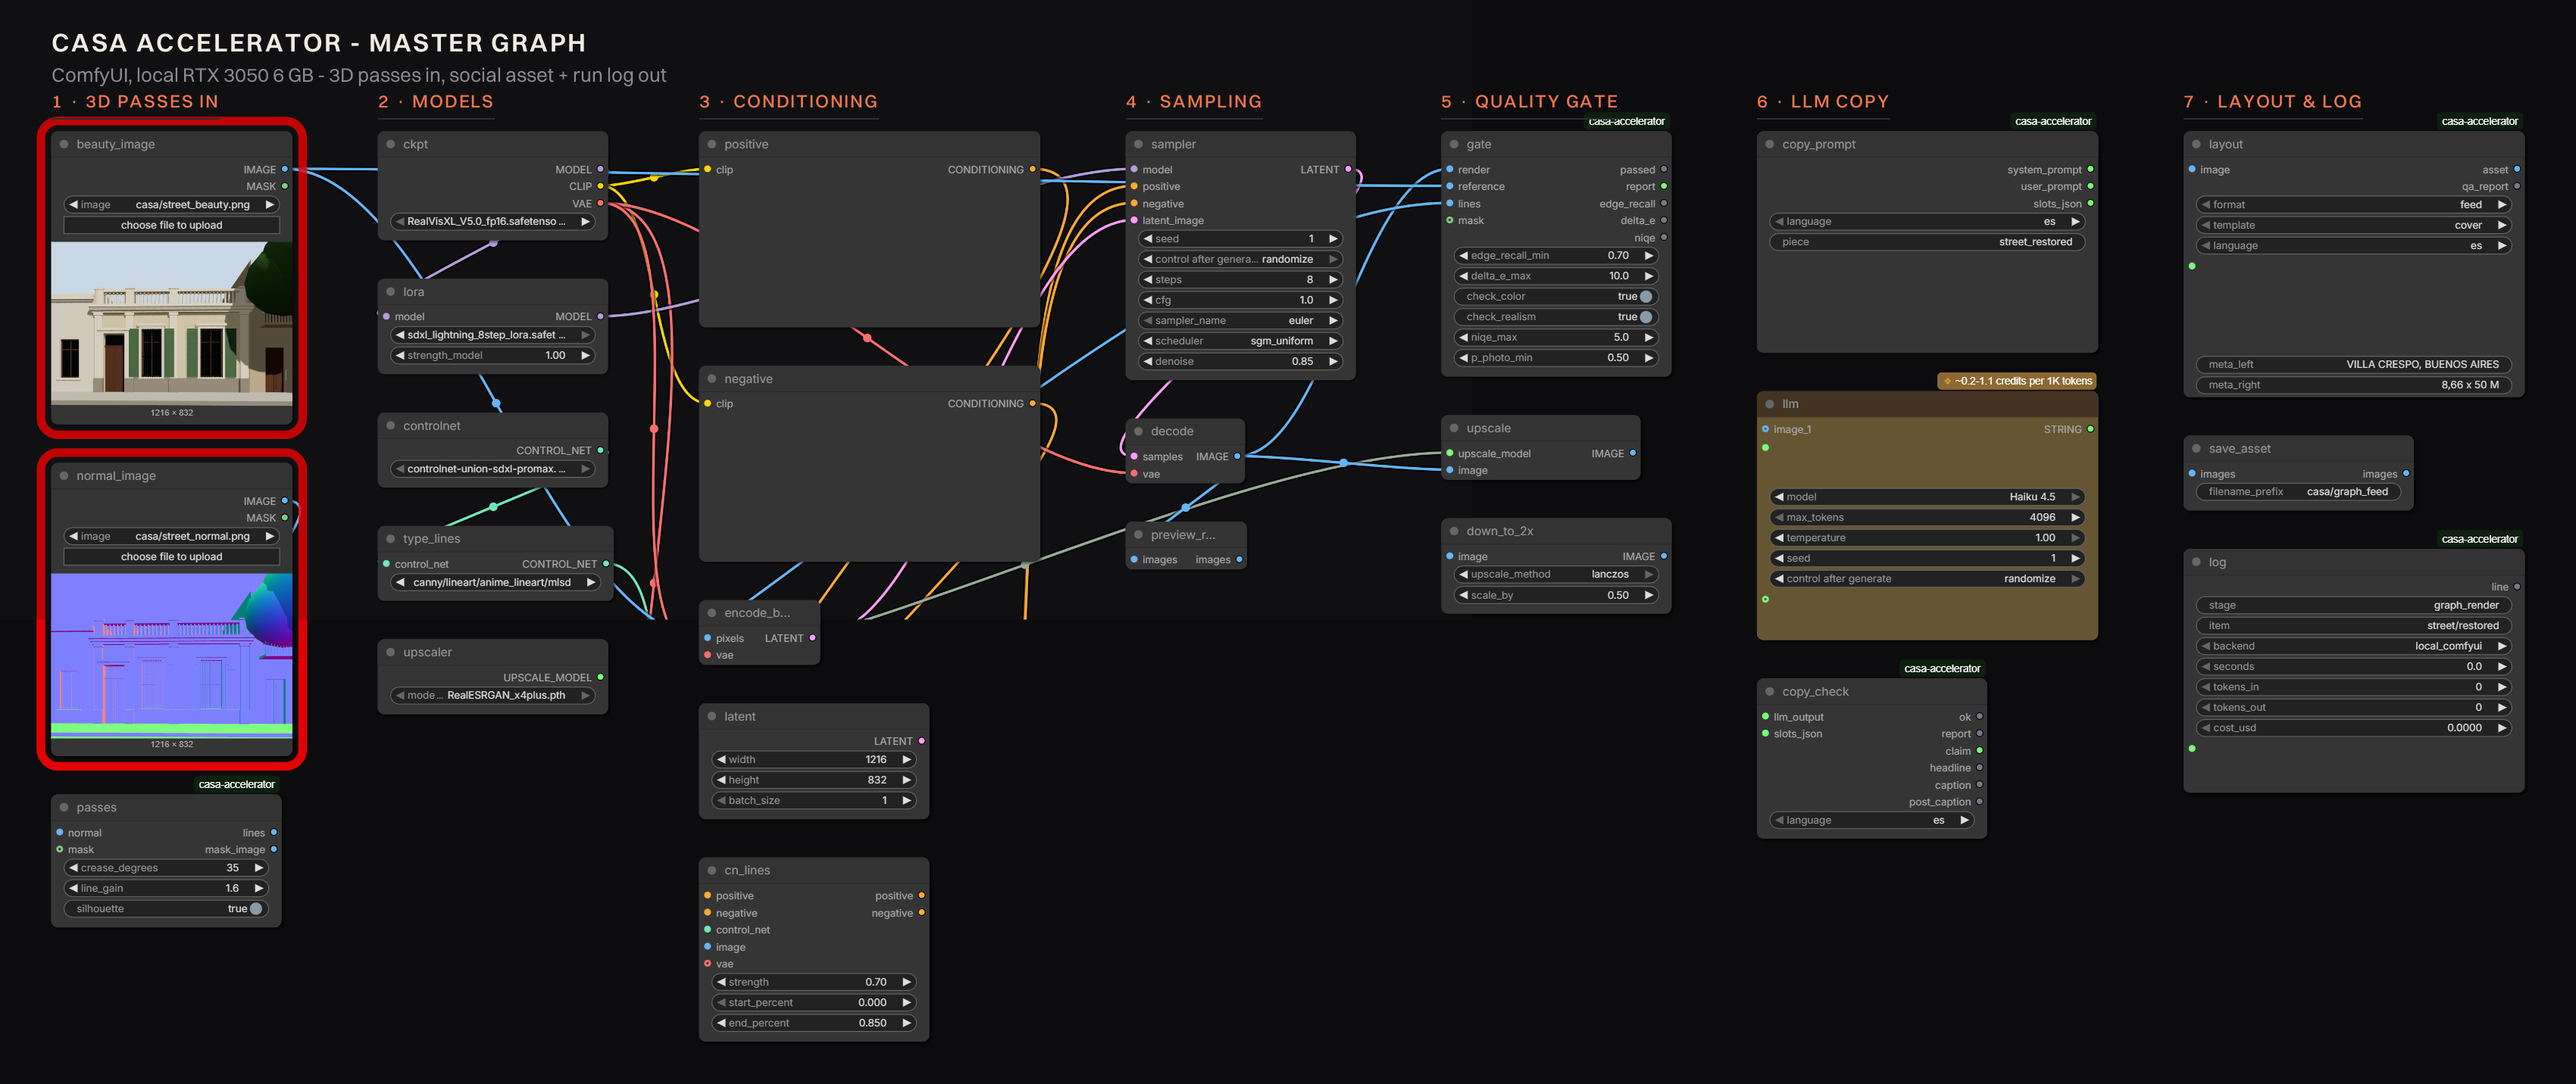
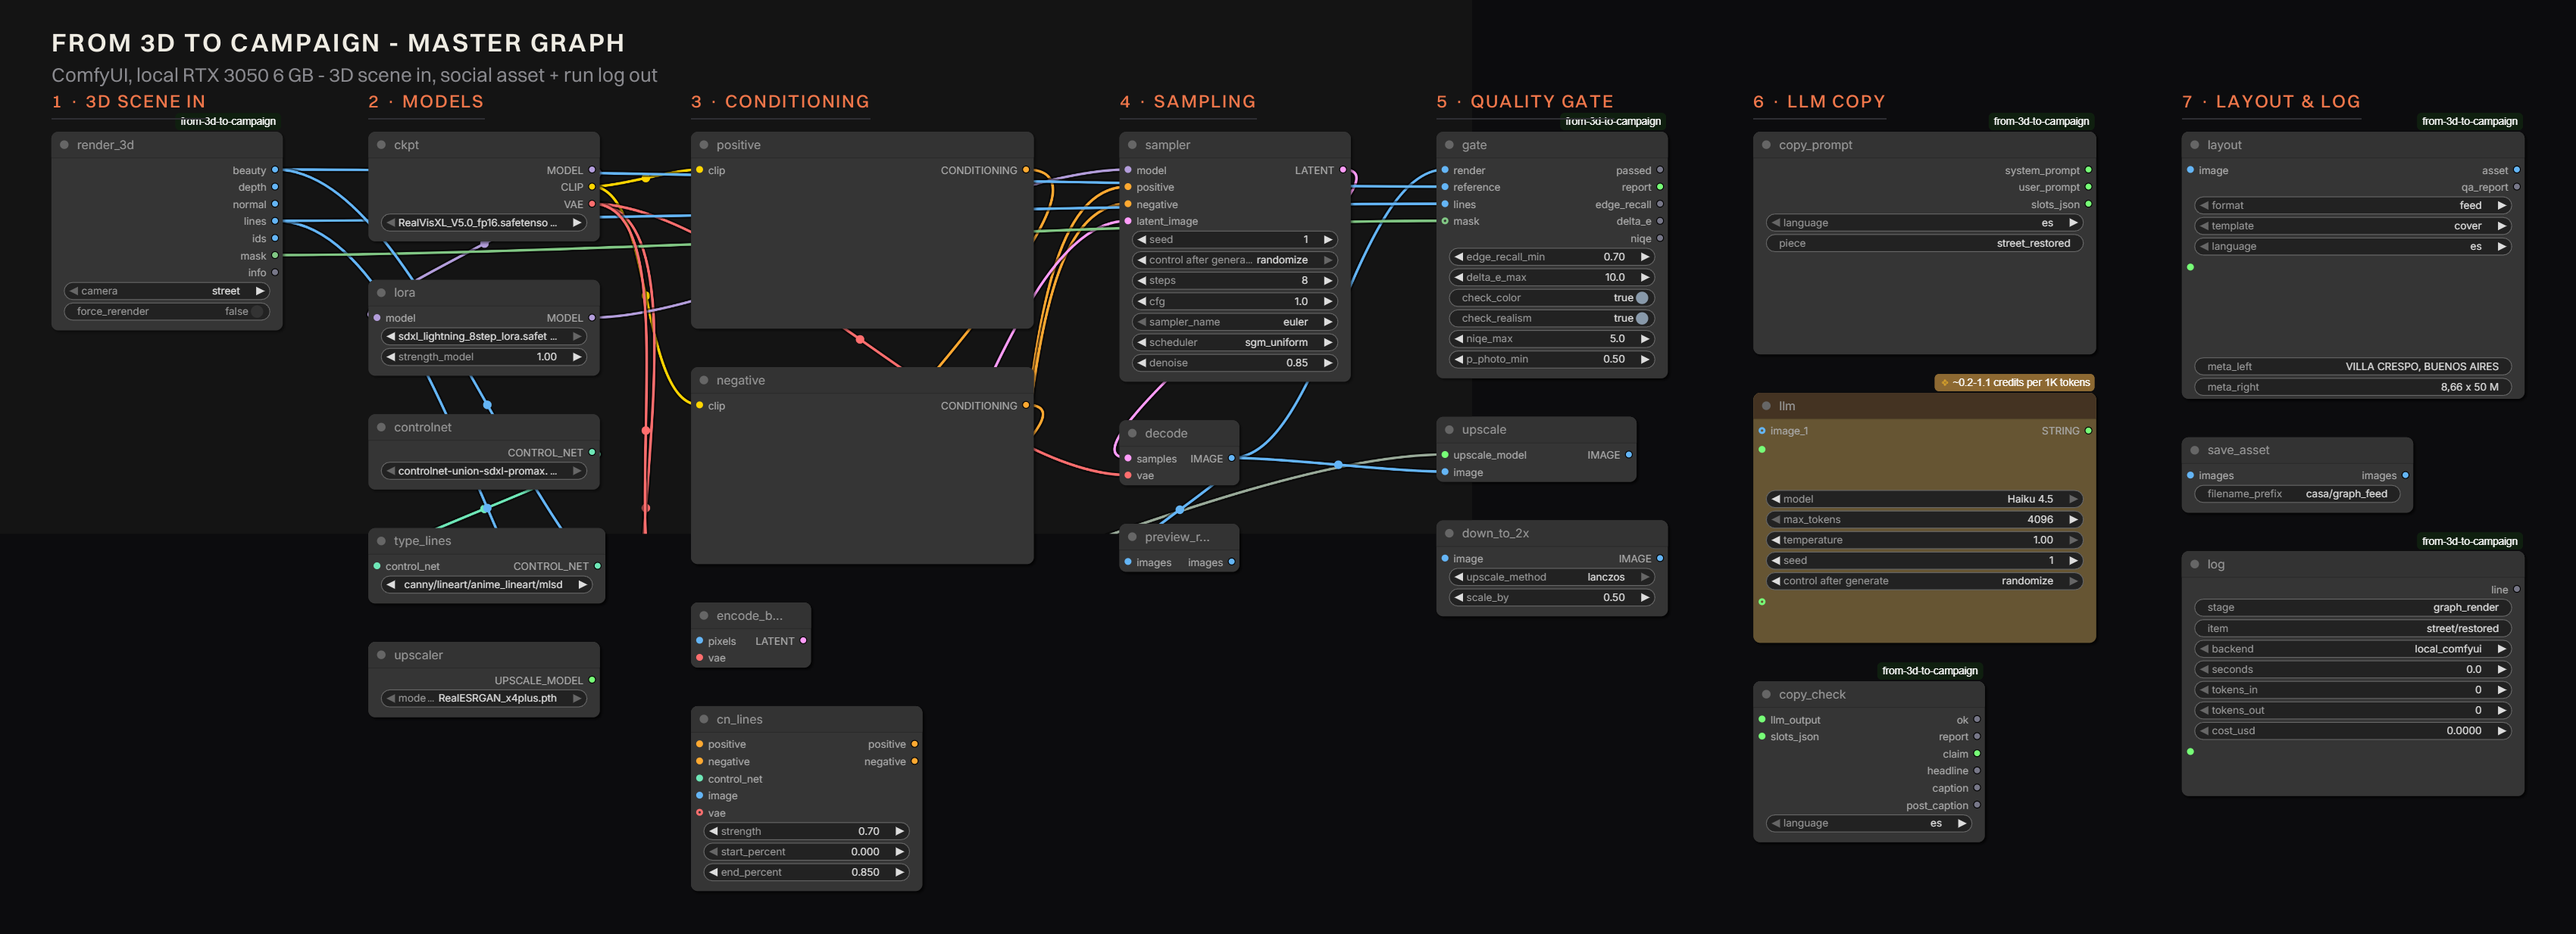
Align the node pack with the project name
The ComfyUI category and the pack folder now read "from 3d to campaign", so the
badge on every node matches the published package. Figures regenerated from the
running graph; the master graph figure now leads with CasaRender3D.

diff --git a/docs/report/index.html b/docs/report/index.html
@@ -260,7 +260,7 @@ footer{border-top:1px solid var(--line);padding:44px 0 70px;font-size:14px;color
       </tbody>
     </table>
     <figure class="two" style="align-items:center">
-      <img src="assets/graph-nodes.png" alt="Detail of the six custom casa-accelerator nodes in ComfyUI">
+      <img src="assets/graph-nodes.png" alt="Detail of the seven custom from-3d-to-campaign nodes in ComfyUI">
       <div>
         <h3>The six custom nodes</h3>
         <p class="muted" style="font-size:16px">They are the part of the pipeline that is <em>ours</em>:
@@ -544,16 +544,18 @@ git clone https://github.com/meryboth/from-3d-to-campaign</code></pre>
     <h3 style="margin-top:44px">Install and run</h3>
     <ol class="steps">
       <li>
-        <h3>Clone the repo and its node pack</h3>
-        <p>The pack is a thin wrapper: a loader in <span class="mono">custom_nodes</span> that points
-          ComfyUI at the repo's <span class="mono">comfy_nodes</span> folder, so one checkout serves both
-          the graph and the command line.</p>
-<pre><code>git clone https://github.com/&lt;user&gt;/casa-accelerator
-cd casa-accelerator &amp;&amp; npm install        # Three.js scene + headless exporter
-python -m venv .venv &amp;&amp; .venv/Scripts/pip install -r requirements.txt</code></pre>
-<pre><code># ComfyUI/custom_nodes/casa-accelerator/__init__.py
-import sys; sys.path.insert(0, r"&lt;path-to&gt;/casa-accelerator/comfy_nodes")
-from casa_accelerator import NODE_CLASS_MAPPINGS, NODE_DISPLAY_NAME_MAPPINGS</code></pre>
+        <h3>Install the pack</h3>
+        <p>From the ComfyUI Manager, search <em>From 3D to Campaign</em>. Or clone it — one checkout
+          serves both the graph and the command line, because the nodes call the same modules the CLI
+          does.</p>
+<pre><code>cd ComfyUI/custom_nodes
+git clone https://github.com/meryboth/from-3d-to-campaign
+cd from-3d-to-campaign
+npm install                                 # Three.js scene + headless exporter
+python -m venv .venv &amp;&amp; .venv/Scripts/pip install -r requirements-dev.txt</code></pre>
+      <p>The repo's own <span class="mono">__init__.py</span> is the entry point, so there is no loader
+        stub to write: ComfyUI finds the seven nodes under <strong>from 3d to campaign</strong> after a
+        restart.</p>
       </li>
       <li>
         <h3>Install the metric dependencies into ComfyUI's Python</h3>

diff --git a/comfy_nodes/casa_accelerator/nodes.py b/comfy_nodes/casa_accelerator/nodes.py
@@ -19,7 +19,7 @@ sys.path.insert(0, str(REPO / "pipeline"))
 import qa as qa_mod  # noqa: E402
 from design import BRAND, C, Canvas, contrast_ratio, hex_rgb  # noqa: E402
 
-CATEGORY = "casa accelerator"
+CATEGORY = "from 3d to campaign"
 
 
 # ---- tensor helpers ---------------------------------------------------------

diff --git a/README.md b/README.md
@@ -140,7 +140,7 @@ cd from-3d-to-campaign
 npm install                     # the Three.js scene + headless exporter
 ```
 
-Restart ComfyUI. Seven nodes appear under **casa accelerator**.
+Restart ComfyUI. Seven nodes appear under **from 3d to campaign**.
 
 The realism metrics are optional and are *not* declared as dependencies, because both packages pull
 their own torch build and would replace the CUDA one ComfyUI runs on. To enable them:
